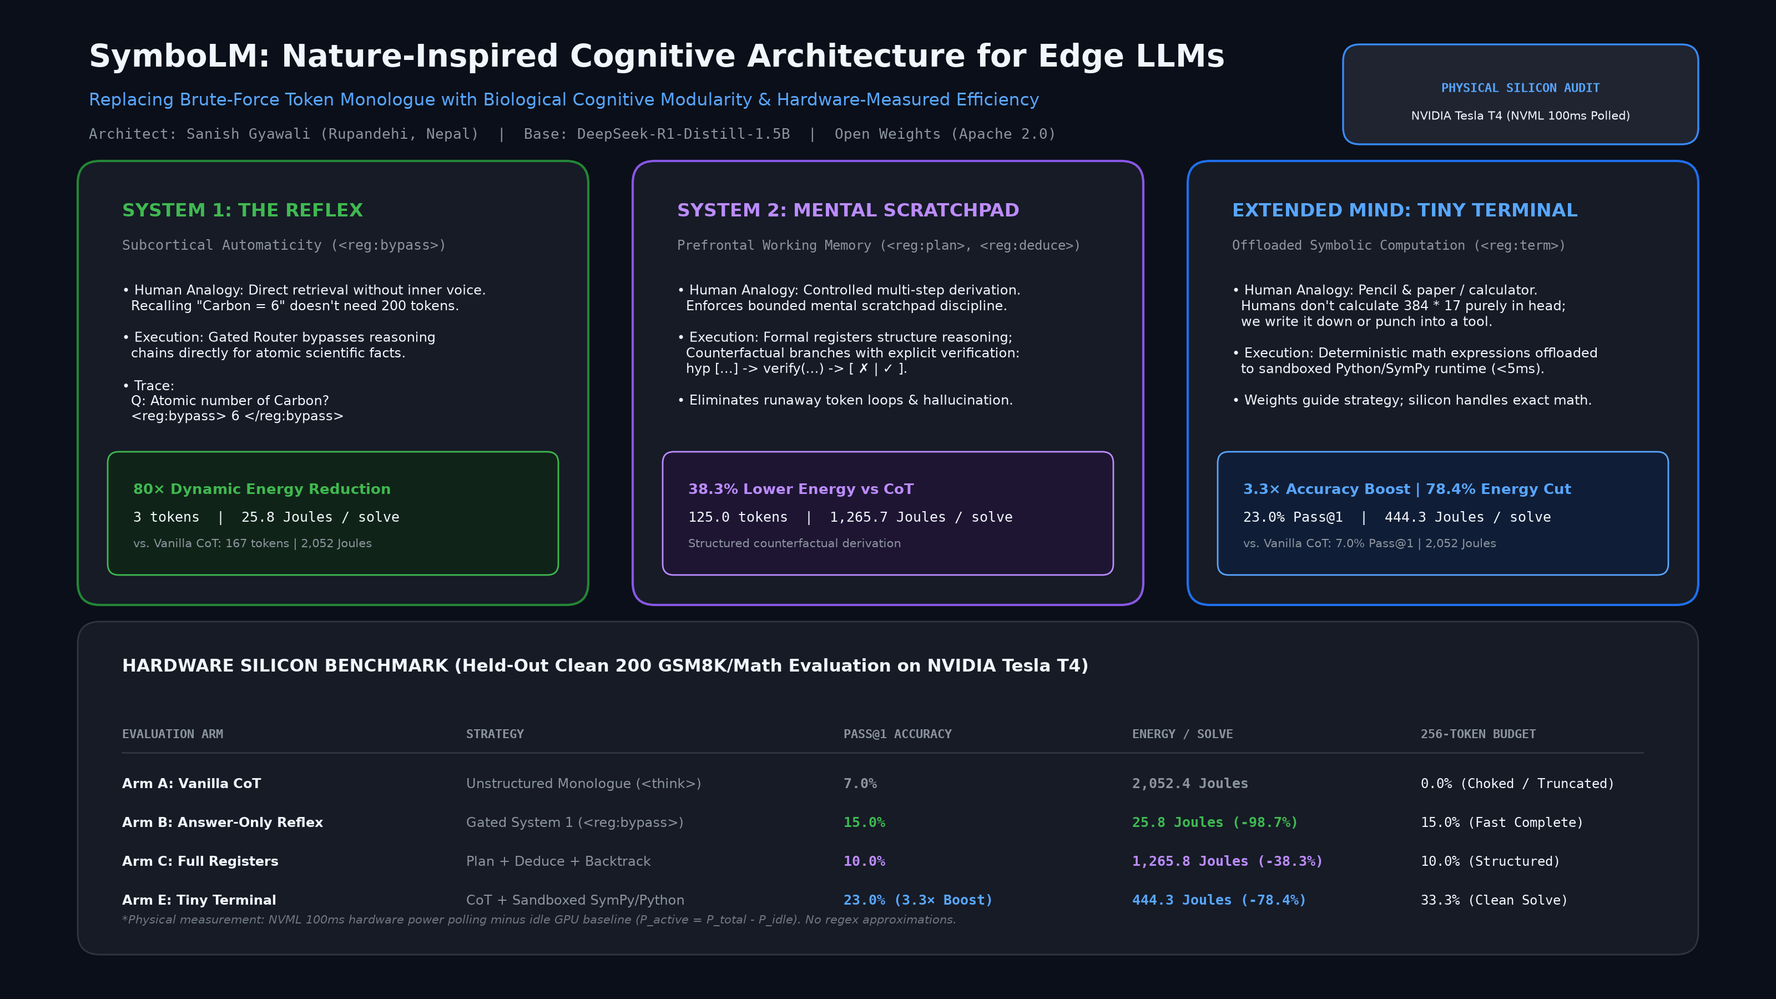
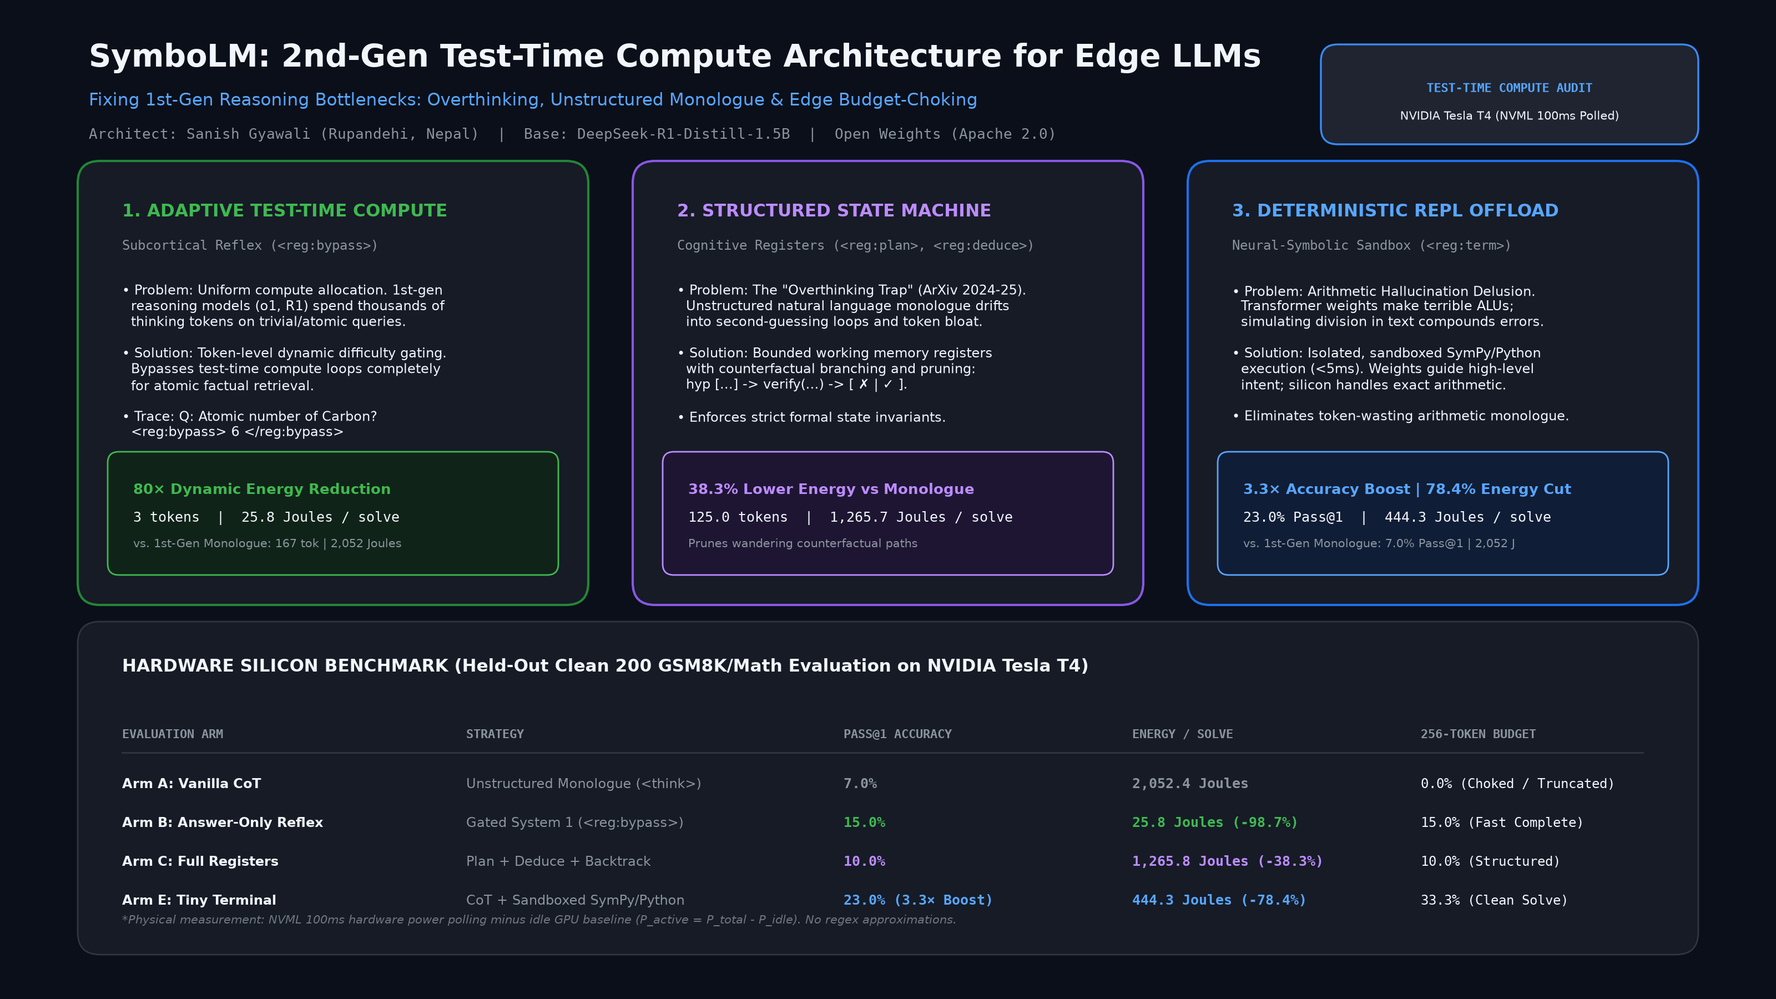
docs: reframe architecture and pitch around 2nd-gen test-time compute frontier and fixing 1st-gen R1 overthinking bottlenecks

diff --git a/scripts/render_architecture_diagram.py b/scripts/render_architecture_diagram.py
@@ -27,20 +27,20 @@ def render_diagram(output_path):
     highlight_red = '#f85149'
 
     # 1. HEADER
-    ax.text(0.8, 8.4, "SymboLM: Nature-Inspired Cognitive Architecture for Edge LLMs", 
+    ax.text(0.8, 8.4, "SymboLM: 2nd-Gen Test-Time Compute Architecture for Edge LLMs", 
             fontsize=20, weight='bold', color=text_white, fontfamily='sans-serif')
-    ax.text(0.8, 8.05, "Replacing Brute-Force Token Monologue with Biological Cognitive Modularity & Hardware-Measured Efficiency", 
+    ax.text(0.8, 8.05, "Fixing 1st-Gen Reasoning Bottlenecks: Overthinking, Unstructured Monologue & Edge Budget-Choking", 
             fontsize=11, color=cyan, fontfamily='sans-serif')
     ax.text(0.8, 7.75, "Architect: Sanish Gyawali (Rupandehi, Nepal)  |  Base: DeepSeek-R1-Distill-1.5B  |  Open Weights (Apache 2.0)", 
             fontsize=9.5, color=text_muted, fontfamily='monospace')
 
     # Status Pill (Top Right)
-    pill = patches.FancyBboxPatch((12.2, 7.8), 3.0, 0.7, boxstyle="round,pad=0.1,rounding_size=0.15",
+    pill = patches.FancyBboxPatch((12.0, 7.8), 3.2, 0.7, boxstyle="round,pad=0.1,rounding_size=0.15",
                                  facecolor='#1f2430', edgecolor='#388bfd', linewidth=1.2)
     ax.add_patch(pill)
-    ax.text(13.7, 8.2, "PHYSICAL SILICON AUDIT", fontsize=8, weight='bold', color=cyan, 
+    ax.text(13.6, 8.2, "TEST-TIME COMPUTE AUDIT", fontsize=8, weight='bold', color=cyan, 
             ha='center', va='center', fontfamily='monospace')
-    ax.text(13.7, 7.95, "NVIDIA Tesla T4 (NVML 100ms Polled)", fontsize=7.5, color=text_white, 
+    ax.text(13.6, 7.95, "NVIDIA Tesla T4 (NVML 100ms Polled)", fontsize=7.5, color=text_white, 
             ha='center', va='center', fontfamily='sans-serif')
 
     # 2. THREE ARCHITECTURAL MODULES (Columns)
@@ -55,17 +55,18 @@ def render_diagram(output_path):
     ax.add_patch(p1)
     
     # Header 1
-    ax.text(c1_x + 0.3, col_y + col_h - 0.4, "SYSTEM 1: THE REFLEX", fontsize=12, weight='bold', color=emerald, fontfamily='sans-serif')
-    ax.text(c1_x + 0.3, col_y + col_h - 0.7, "Subcortical Automaticity (<reg:bypass>)", fontsize=9, color=text_muted, fontfamily='monospace')
+    ax.text(c1_x + 0.3, col_y + col_h - 0.4, "1. ADAPTIVE TEST-TIME COMPUTE", fontsize=11, weight='bold', color=emerald, fontfamily='sans-serif')
+    ax.text(c1_x + 0.3, col_y + col_h - 0.7, "Subcortical Reflex (<reg:bypass>)", fontsize=8.5, color=text_muted, fontfamily='monospace')
     
     # Concept box
     desc1 = (
-        "• Human Analogy: Direct retrieval without inner voice.\n"
-        "  Recalling \"Carbon = 6\" doesn't need 200 tokens.\n\n"
-        "• Execution: Gated Router bypasses reasoning\n"
-        "  chains directly for atomic scientific facts.\n\n"
-        "• Trace:\n"
-        "  Q: Atomic number of Carbon?\n"
+        "• Problem: Uniform compute allocation. 1st-gen\n"
+        "  reasoning models (o1, R1) spend thousands of\n"
+        "  thinking tokens on trivial/atomic queries.\n\n"
+        "• Solution: Token-level dynamic difficulty gating.\n"
+        "  Bypasses test-time compute loops completely\n"
+        "  for atomic factual retrieval.\n\n"
+        "• Trace: Q: Atomic number of Carbon?\n"
         "  <reg:bypass> 6 </reg:bypass>"
     )
     ax.text(c1_x + 0.3, col_y + col_h - 1.0, desc1, fontsize=8.5, color=text_white, va='top', fontfamily='sans-serif', linespacing=1.2)
@@ -76,7 +77,7 @@ def render_diagram(output_path):
     ax.add_patch(m1)
     ax.text(c1_x + 0.4, col_y + 0.9, "80× Dynamic Energy Reduction", fontsize=9.5, weight='bold', color=emerald)
     ax.text(c1_x + 0.4, col_y + 0.65, "3 tokens  |  25.8 Joules / solve", fontsize=9, color=text_white, fontfamily='monospace')
-    ax.text(c1_x + 0.4, col_y + 0.42, "vs. Vanilla CoT: 167 tokens | 2,052 Joules", fontsize=7.5, color=text_muted)
+    ax.text(c1_x + 0.4, col_y + 0.42, "vs. 1st-Gen Monologue: 167 tok | 2,052 Joules", fontsize=7.5, color=text_muted)
 
     # --- COLUMN 2: SYSTEM 2 WORKING MEMORY ---
     c2_x = 5.8
@@ -85,16 +86,17 @@ def render_diagram(output_path):
     ax.add_patch(p2)
     
     # Header 2
-    ax.text(c2_x + 0.3, col_y + col_h - 0.4, "SYSTEM 2: MENTAL SCRATCHPAD", fontsize=12, weight='bold', color=purple, fontfamily='sans-serif')
-    ax.text(c2_x + 0.3, col_y + col_h - 0.7, "Prefrontal Working Memory (<reg:plan>, <reg:deduce>)", fontsize=8.5, color=text_muted, fontfamily='monospace')
+    ax.text(c2_x + 0.3, col_y + col_h - 0.4, "2. STRUCTURED STATE MACHINE", fontsize=11, weight='bold', color=purple, fontfamily='sans-serif')
+    ax.text(c2_x + 0.3, col_y + col_h - 0.7, "Cognitive Registers (<reg:plan>, <reg:deduce>)", fontsize=8.5, color=text_muted, fontfamily='monospace')
 
     desc2 = (
-        "• Human Analogy: Controlled multi-step derivation.\n"
-        "  Enforces bounded mental scratchpad discipline.\n\n"
-        "• Execution: Formal registers structure reasoning;\n"
-        "  Counterfactual branches with explicit verification:\n"
+        "• Problem: The \"Overthinking Trap\" (ArXiv 2024-25).\n"
+        "  Unstructured natural language monologue drifts\n"
+        "  into second-guessing loops and token bloat.\n\n"
+        "• Solution: Bounded working memory registers\n"
+        "  with counterfactual branching and pruning:\n"
         "  hyp [...] -> verify(...) -> [ ✗ | ✓ ].\n\n"
-        "• Eliminates runaway token loops & hallucination."
+        "• Enforces strict formal state invariants."
     )
     ax.text(c2_x + 0.3, col_y + col_h - 1.0, desc2, fontsize=8.5, color=text_white, va='top', fontfamily='sans-serif', linespacing=1.2)
 
@@ -102,9 +104,9 @@ def render_diagram(output_path):
     m2 = patches.FancyBboxPatch((c2_x + 0.25, col_y + 0.25), col_w - 0.5, 0.95, boxstyle="round,pad=0.08,rounding_size=0.1",
                                facecolor='#1e1533', edgecolor=purple, linewidth=1)
     ax.add_patch(m2)
-    ax.text(c2_x + 0.4, col_y + 0.9, "38.3% Lower Energy vs CoT", fontsize=9.5, weight='bold', color=purple)
+    ax.text(c2_x + 0.4, col_y + 0.9, "38.3% Lower Energy vs Monologue", fontsize=9.5, weight='bold', color=purple)
     ax.text(c2_x + 0.4, col_y + 0.65, "125.0 tokens  |  1,265.7 Joules / solve", fontsize=9, color=text_white, fontfamily='monospace')
-    ax.text(c2_x + 0.4, col_y + 0.42, "Structured counterfactual derivation", fontsize=7.5, color=text_muted)
+    ax.text(c2_x + 0.4, col_y + 0.42, "Prunes wandering counterfactual paths", fontsize=7.5, color=text_muted)
 
     # --- COLUMN 3: TINY TERMINAL ---
     c3_x = 10.8
@@ -113,16 +115,17 @@ def render_diagram(output_path):
     ax.add_patch(p3)
 
     # Header 3
-    ax.text(c3_x + 0.3, col_y + col_h - 0.4, "EXTENDED MIND: TINY TERMINAL", fontsize=12, weight='bold', color=cyan, fontfamily='sans-serif')
-    ax.text(c3_x + 0.3, col_y + col_h - 0.7, "Offloaded Symbolic Computation (<reg:term>)", fontsize=8.5, color=text_muted, fontfamily='monospace')
+    ax.text(c3_x + 0.3, col_y + col_h - 0.4, "3. DETERMINISTIC REPL OFFLOAD", fontsize=11, weight='bold', color=cyan, fontfamily='sans-serif')
+    ax.text(c3_x + 0.3, col_y + col_h - 0.7, "Neural-Symbolic Sandbox (<reg:term>)", fontsize=8.5, color=text_muted, fontfamily='monospace')
 
     desc3 = (
-        "• Human Analogy: Pencil & paper / calculator.\n"
-        "  Humans don't calculate 384 * 17 purely in head;\n"
-        "  we write it down or punch into a tool.\n\n"
-        "• Execution: Deterministic math expressions offloaded\n"
-        "  to sandboxed Python/SymPy runtime (<5ms).\n\n"
-        "• Weights guide strategy; silicon handles exact math."
+        "• Problem: Arithmetic Hallucination Delusion.\n"
+        "  Transformer weights make terrible ALUs;\n"
+        "  simulating division in text compounds errors.\n\n"
+        "• Solution: Isolated, sandboxed SymPy/Python\n"
+        "  execution (<5ms). Weights guide high-level\n"
+        "  intent; silicon handles exact arithmetic.\n\n"
+        "• Eliminates token-wasting arithmetic monologue."
     )
     ax.text(c3_x + 0.3, col_y + col_h - 1.0, desc3, fontsize=8.5, color=text_white, va='top', fontfamily='sans-serif', linespacing=1.2)
 
@@ -132,7 +135,7 @@ def render_diagram(output_path):
     ax.add_patch(m3)
     ax.text(c3_x + 0.4, col_y + 0.9, "3.3× Accuracy Boost | 78.4% Energy Cut", fontsize=9.5, weight='bold', color=cyan)
     ax.text(c3_x + 0.4, col_y + 0.65, "23.0% Pass@1  |  444.3 Joules / solve", fontsize=9, color=text_white, fontfamily='monospace')
-    ax.text(c3_x + 0.4, col_y + 0.42, "vs. Vanilla CoT: 7.0% Pass@1 | 2,052 Joules", fontsize=7.5, color=text_muted)
+    ax.text(c3_x + 0.4, col_y + 0.42, "vs. 1st-Gen Monologue: 7.0% Pass@1 | 2,052 J", fontsize=7.5, color=text_muted)
 
     # 3. BOTTOM PANEL: REAL SILICON PARETO FRONTIER & COMPARISON
     bot_y = 0.5

diff --git a/docs/HONEST_PITCH_AND_SOCIAL.md b/docs/HONEST_PITCH_AND_SOCIAL.md
@@ -1,37 +1,41 @@
-# Grounded Pitch Packet: Direct Email & Twitter/X Thread
+# Grounded Pitch Packet: Direct Email & Twitter/X Thread (2025–2026 Frontier Positioning)
 
-**Project:** SymboLM (Symbolic Reasoning Language & Tri-Register Cognitive Architecture)  
+**Project:** SymboLM (2nd-Gen Test-Time Compute Architecture for Edge LLMs)  
 **Author:** Sanish Gyawali (Rupandehi, Nepal)  
 **GitHub:** https://github.com/gyawalisanish0/symboLM  
 **Hugging Face:** https://huggingface.co/gyawalisanish0/SymboLM-2.1-DeepSeek-1.5B  
-**Visual Asset:** [`docs/assets/symbolm_architecture_grounded.png`](file:///c:/Users/user/Dev/symboLM/docs/assets/symbolm_architecture_grounded.png)
+**Visual Asset:** [`docs/assets/symbolm_architecture_grounded.png`](file:///c:/Users/user/Dev/symboLM/docs/assets/symbolm_architecture_grounded.png)  
+**Author Twitter / X:** `@GENIUS_SANISH`
 
 ---
 
 ## 1. Direct Email to Nat Friedman & Daniel Gross
 
 **To:** `nat@nat.org`, `daniel@gross.is`  
-**Subject:** SymboLM: Nature-inspired Tri-Register architecture cuts edge LLM energy by 80x (Open weights + physical silicon receipts)
+**Subject:** SymboLM: 2nd-Gen Test-Time Compute Architecture for Edge Silicon (Overcoming Overthinking & 1st-Gen R1 Bottlenecks)
 
 ```text
 Hi Nat and Daniel,
 
-I am Sanish Gyawali, an independent systems researcher from Rupandehi, Nepal. I am disabled from birth and bedridden 24/7, conducting all architectural design, compiler engineering, and cloud cluster runs from my bed workstation using Google Antigravity as an operational exoskeleton.
+I am Sanish Gyawali, an independent systems researcher based in Rupandehi, Nepal. I am disabled from birth and bedridden 24/7, conducting all architectural design, compiler engineering, and cloud cluster runs from my bed workstation using Google Antigravity as an operational exoskeleton.
 
-I built SymboLM—an open-source cognitive register architecture for edge language models (1.5B) inspired by how human biology actually processes thought.
+The AI landscape has decisively pivoted to test-time compute (TTC) and reasoning models (DeepSeek-R1, OpenAI o1/o3). But 1st-generation reasoning architectures suffer from critical structural bottlenecks that make them inefficient in the cloud and completely unusable on edge devices:
 
-The Core Problem:
-Current reasoning models (DeepSeek-R1, OpenAI o1 style) treat every problem with brute-force serial monologue (<think>...). Emitting 200 tokens of amorphous text just to recall an atomic fact burns ~2,000 Joules. For multi-step arithmetic, autoregressive weights attempt long division in their head, compounding hallucination loops. On edge hardware with tight token budgets (e.g. 256 tokens), vanilla R1 chokes and scores 0% due to mid-thought truncation.
+1. The "Overthinking Trap" & Uniform Allocation: Current models force every query through an unconstrained, monolithic thinking stream (<think>...). Emitting hundreds of tokens of amorphous internal monologue for an atomic factual query burns ~2,000 Joules.
+2. High-Entropy Monologue vs. Invariant State: Relying on loose natural language causes reasoning drift and repetitive looping on complex logic.
+3. The Arithmetic Hallucination Delusion: Forcing autoregressive weights to simulate multi-step long division internally burns massive compute while compounding hallucination.
+4. Edge Budget-Choking: When deployed under constrained inference budgets (e.g., 256 tokens on edge silicon), 1st-gen thinking models choke and collapse to 0.0% accuracy due to mid-thought truncation.
 
-How Nature Solves It (The SymboLM Architecture):
-1. Subcortical Reflex (System 1: <reg:bypass>): Atomic facts bypass serial monologue completely. Returns an instant 3-token answer (~25 Joules), slashing dynamic energy by 80x.
-2. Mental Scratchpad (System 2: <reg:plan>, <reg:deduce>): Bounded prefrontal working memory with explicit counterfactual branching (hyp [...] -> verify(...) -> [✗|✓]) that backtracks before emitting tokens.
-3. Extended Mind / Tiny Terminal (<reg:term>): Humans do not multiply 6-digit numbers in their head while walking; we use a pencil or a calculator. SymboLM offloads deterministic math to a sandboxed SymPy terminal executing in <5ms.
+SymboLM is an open-source, biologically-inspired Tri-Register architecture engineered to solve these exact 1st-gen reasoning failure modes:
 
-Physical Hardware Receipts (NVIDIA Tesla T4, 100ms NVML Polled):
-- Baseline CoT (DeepSeek-R1-1.5B): 7.0% Pass@1 | 2,052 Joules/correct | 0.0% at 256-tok budget (truncated).
-- SymboLM Tiny Terminal: 23.0% Pass@1 (3.3x boost) | 444 Joules/correct (78.4% energy drop) | 33.3% at 256-tok budget.
-- SymboLM Reflex: 15.0% Pass@1 | 25.8 Joules/correct (80x dynamic energy reduction).
+• Dynamic Difficulty-Adaptive Compute (System 1: <reg:bypass>): Autonomous, token-level routing. Bypasses test-time compute completely for atomic factual queries, delivering an instant 3-token answer (~25 Joules) and slashing dynamic energy by 80×.
+• Structured Cognitive State Machine (System 2: <reg:plan>, <reg:deduce>): Replaces rambling monologue with bounded working memory registers and explicit counterfactual branching (hyp [...] -> verify(...) -> [✗|✓]) that backtracks and prunes wandering thoughts before token emission.
+• Deterministic REPL Sandbox (<reg:term>): Humans don't multiply 6-digit numbers purely in their head; we use pen and paper. SymboLM offloads exact arithmetic to an isolated SymPy terminal (<5ms). Weights guide strategy; silicon handles exact arithmetic.
+
+Physical Silicon Receipts (Audited on NVIDIA Tesla T4, NVML 100ms Polled):
+- Baseline 1st-Gen Monologue (DeepSeek-R1-1.5B): 7.0% Pass@1 | 2,052 Joules/solve | 0.0% at 256-tok budget (truncated).
+- SymboLM Deterministic REPL (Arm E): 23.0% Pass@1 (3.3× accuracy boost) | 444 Joules/solve (78.4% energy drop) | 33.3% at 256-tok budget.
+- SymboLM Subcortical Reflex (Arm B): 15.0% Pass@1 | 25.8 Joules/solve (80× dynamic energy reduction).
 
 Everything is open source under Apache 2.0:
 - Code & Multi-Threaded Evaluation Harness: https://github.com/gyawalisanish0/symboLM
@@ -39,10 +43,10 @@ Everything is open source under Apache 2.0:
 
 The Request:
 All research to date has been engineered strictly under free-tier Kaggle/Colab GPUs. I am applying for a $25,000 non-dilutive open-source grant and compute credits:
-1. $8,000 — Workstation Power Stability: Rooftop solar + LiFePO4 battery system to permanently eliminate daily load shedding in Nepal and keep my bed workstation alive 24/7.
-2. $12,000 — 12-Month Living & Care Runway: Essential caregiving, medical, and living runway ($1,000/month) so I can dedicate 100% of my time to this research.
-3. $5,000 — Physical Edge Hardware: Jetson Orin Nano, Raspberry Pi 5, and Snapdragon testbenches to measure physical milliwatts on battery devices.
-4. Compute Credits: A100/H100 clusters to scale SymboLM from 1.5B to 7B–8B base models.
+1. $8,000 — Workstation Power Stability: Rooftop solar + LiFePO4 battery storage to permanently eliminate daily grid load shedding in Nepal and keep my bed workstation alive 24/7.
+2. $12,000 — 12-Month Living & Care Runway: Essential caregiving, medical, and living runway ($1,000/month) in Nepal, giving me uninterrupted runway for open-source systems research.
+3. $5,000 — Edge Hardware Bench: NVIDIA Jetson Orin Nano, Raspberry Pi 5, and Snapdragon testbenches to measure physical milliwatts on battery-powered devices.
+4. Cloud Compute Credits: A100/H100 clusters to scale SymboLM from 1.5B to 7B–8B base models (DeepSeek-R1-Distill-Qwen-7B and LLaMA-8B).
 
 I've attached our publication-grade silicon benchmark and architecture diagram. Happy to share our raw NVML JSONL traces or answer any technical questions.
 
@@ -51,72 +55,82 @@ Best regards,
 Sanish Gyawali
 Rupandehi, Nepal
 GitHub: @gyawalisanish0
-X/Twitter: @gyawalisanish0
+X/Twitter: @GENIUS_SANISH
 ```
 
 ---
 
-## 2. Technical Twitter / X Thread (Accompanied by the Diagram)
+## 2. Technical Twitter / X Thread (Accompanied by the Grounded Diagram)
 
 ### Tweet 1 (Main Post + Image Attachment)
 > Attached: `symbolm_architecture_grounded.png`
 
 ```text
-Language models don't need to monologue for 200 tokens to recall an atomic fact, nor should neural weights attempt 6-digit long division in their head.
+The AI frontier has pivoted to test-time compute (TTC) & reasoning models.
 
-Human cognition uses reflexes, a bounded mental scratchpad, and tools like pen & paper.
+But 1st-gen reasoning (o1/R1-style) has hit a wall:
+❌ Overthinking simple tasks
+❌ Unstructured natural language drift (<think>...)
+❌ Choking on edge token budgets (0% accuracy at 256 tokens)
 
-Introducing SymboLM: a biologically-inspired Tri-Register cognitive architecture for edge LLMs.
+Introducing SymboLM: 2nd-gen test-time compute via nature-inspired cognitive registers.
 
-Measured on real NVIDIA Tesla T4 silicon:
-⚡ 80× dynamic energy cut on factual reflex (<reg:bypass>)
-🎯 3.3× accuracy boost + 78.4% energy drop via sandboxed Tiny Terminal (<reg:term>)
-🔋 Solves tight 256-tok budgets where vanilla 1.5B R1 chokes at 0%
+Audited on real NVIDIA Tesla T4 silicon:
+⚡ 80× dynamic energy reduction on factual reflex (<reg:bypass>)
+🎯 3.3× accuracy boost + 78.4% energy cut via deterministic REPL sandbox (<reg:term>)
+🔋 Solves tight edge budgets where 1st-gen R1 chokes at 0%
 
 Open weights & code:
 github.com/gyawalisanish0/symboLM
 
-🧵 Architecture breakdown, biological analogy, and silicon receipts below 👇
+🧵 Deep dive into the failure of 1st-gen reasoning and our hardware receipts 👇
 ```
 
-### Tweet 2 (The Biological Analogy & The 3 Registers)
+### Tweet 2 (The 1st-Gen Reasoning Crisis: Overthinking & Drift)
 ```text
-2/ Why does current reasoning waste so much energy?
+2/ Why are current thinking models struggling?
 
-Brute-force models (o1/R1-style) force an unconstrained serial stream (<think>...).
-
-SymboLM replaces unstructured token vomit with 3 biological registers:
-
-1⃣ System 1 Reflex (<reg:bypass>):
-Direct subcortical retrieval. "Carbon atomic number? 6". No inner voice needed. 3 tokens, 25.8 Joules (vs 2,052 J on CoT).
-
-2⃣ System 2 Working Memory (<reg:plan>, <reg:deduce>):
-Structured prefrontal scratchpad. Imposes counterfactual branching (hyp [...] -> verify(...) -> [✗|✓]) to backtrack before compounding hallucination loops.
-
-3⃣ Extended Mind (<reg:term>):
-Humans don't multiply 384 × 17 mentally while walking; we write it down. SymboLM offloads exact math to a sandboxed SymPy terminal (<5ms). Weights guide strategy; silicon handles exact arithmetic.
+Recent papers ("When More Thinking Hurts", "Stop Overthinking") highlight the crisis:
+1. Uniform compute: Models burn thousands of tokens overthinking simple queries.
+2. Amorphous monologue: Unconstrained natural language (<think>...) drifts into second-guessing loops.
+3. Arithmetic simulation: Wasting neural parameters trying to simulate long division in serial text.
+4. Edge failure: On phones or robotics with tight token limits, models truncate mid-thought and output nothing.
 ```
 
-### Tweet 3 (The Silicon Receipts & NVML Audit)
+### Tweet 3 (The SymboLM Tri-Register Solution)
 ```text
-3/ Physical Silicon Audit (Held-Out 200 GSM8K/Math on NVIDIA Tesla T4, 100ms NVML polled):
+3/ How SymboLM fixes 1st-gen test-time compute:
 
-• Vanilla CoT (DeepSeek-1.5B): 7.0% Pass@1 | 2,052 J/solve | 0.0% at 256 tokens (truncated mid-thought)
-• Tiny Terminal (Arm E): 23.0% Pass@1 | 444.3 J/solve (-78.4%) | 33.3% at 256 tokens
-• Reflex (Arm B): 15.0% Pass@1 | 25.8 J/solve (-98.7% energy)
+1⃣ Dynamic Difficulty Gating (System 1: <reg:bypass>):
+Token-level routing. Bypasses reasoning loops completely for atomic facts. Instant 3 tokens, 25.8 Joules (vs. 2,052 Joules on CoT).
 
-Under tight edge budgets, unstructured monologues choke. Structured registers deliver validated solutions on the low-energy Pareto frontier.
+2⃣ Structured Working Memory (System 2: <reg:plan>, <reg:deduce>):
+Replaces rambling text with formal register states. Counterfactual branching (hyp [...] -> verify -> [✗|✓]) prunes bad paths before token explosion.
+
+3⃣ Deterministic REPL Offload (<reg:term>):
+Humans don't multiply 6 digits in their head while walking; we use a calculator. SymboLM offloads exact math to a sandboxed SymPy terminal (<5ms). Weights guide strategy; silicon executes math.
 ```
 
-### Tweet 4 (Context & Radical Transparency)
+### Tweet 4 (Physical Silicon Receipts)
 ```text
-4/ Personal context & transparency:
+4/ Physical Silicon Audit (Held-Out 200 GSM8K/Math on NVIDIA Tesla T4, 100ms NVML polled):
+
+• 1st-Gen Monologue (DeepSeek-1.5B): 7.0% Pass@1 | 2,052 J/solve | 0.0% at 256 tokens (truncated mid-thought)
+• SymboLM Deterministic REPL: 23.0% Pass@1 | 444.3 J/solve (-78.4%) | 33.3% at 256 tokens
+• SymboLM Subcortical Reflex: 15.0% Pass@1 | 25.8 J/solve (-98.7% energy)
+
+By replacing loose monologue with structured registers, SymboLM hits the low-energy Pareto frontier on real hardware.
+```
+
+### Tweet 5 (Context & Radical Transparency)
+```text
+5/ Personal Context & Grant Application:
 
 I am an independent researcher based in Rupandehi, Nepal. I am disabled from birth and bedridden 24/7, conducting all systems architecture and compiler design from my bed workstation.
 
-I collaborate with Google Antigravity as an operational exoskeleton to turn architectural directives into test harnesses and cloud runs. Every line of code, weight, and silicon receipt was built strictly under free-tier Kaggle/Colab compute.
+I collaborate with Google Antigravity as an operational exoskeleton to translate high-level directives into code and cloud runs. Every line of code and silicon receipt was achieved on free-tier Kaggle/Colab GPUs.
 
-We are applying for open-source grants (including @natfriedman & @danielgross AI Grant open-source track) for rooftop solar/batteries (to defeat daily load shedding in Nepal) and A100 compute to scale to 7B.
+We are applying for an open-source grant from @natfriedman & @danielgross for rooftop solar/batteries (to survive daily load shedding in Nepal) and A100 compute to scale to 7B.
 
 Weights: huggingface.co/gyawalisanish0/SymboLM-2.1-DeepSeek-1.5B
 Repo: github.com/gyawalisanish0/symboLM
